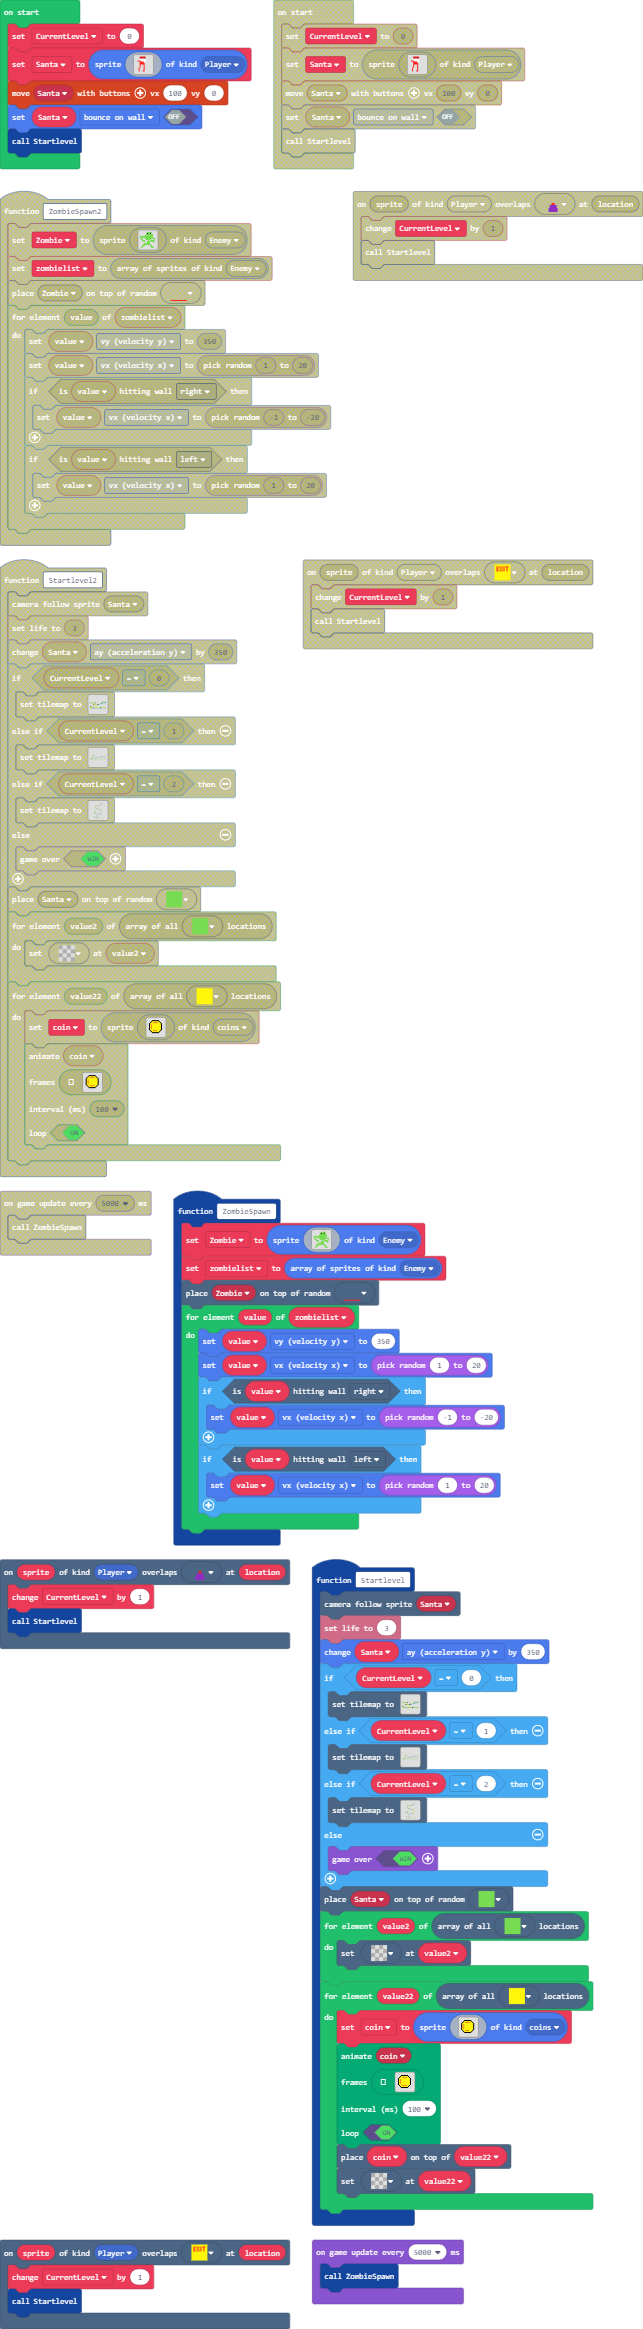
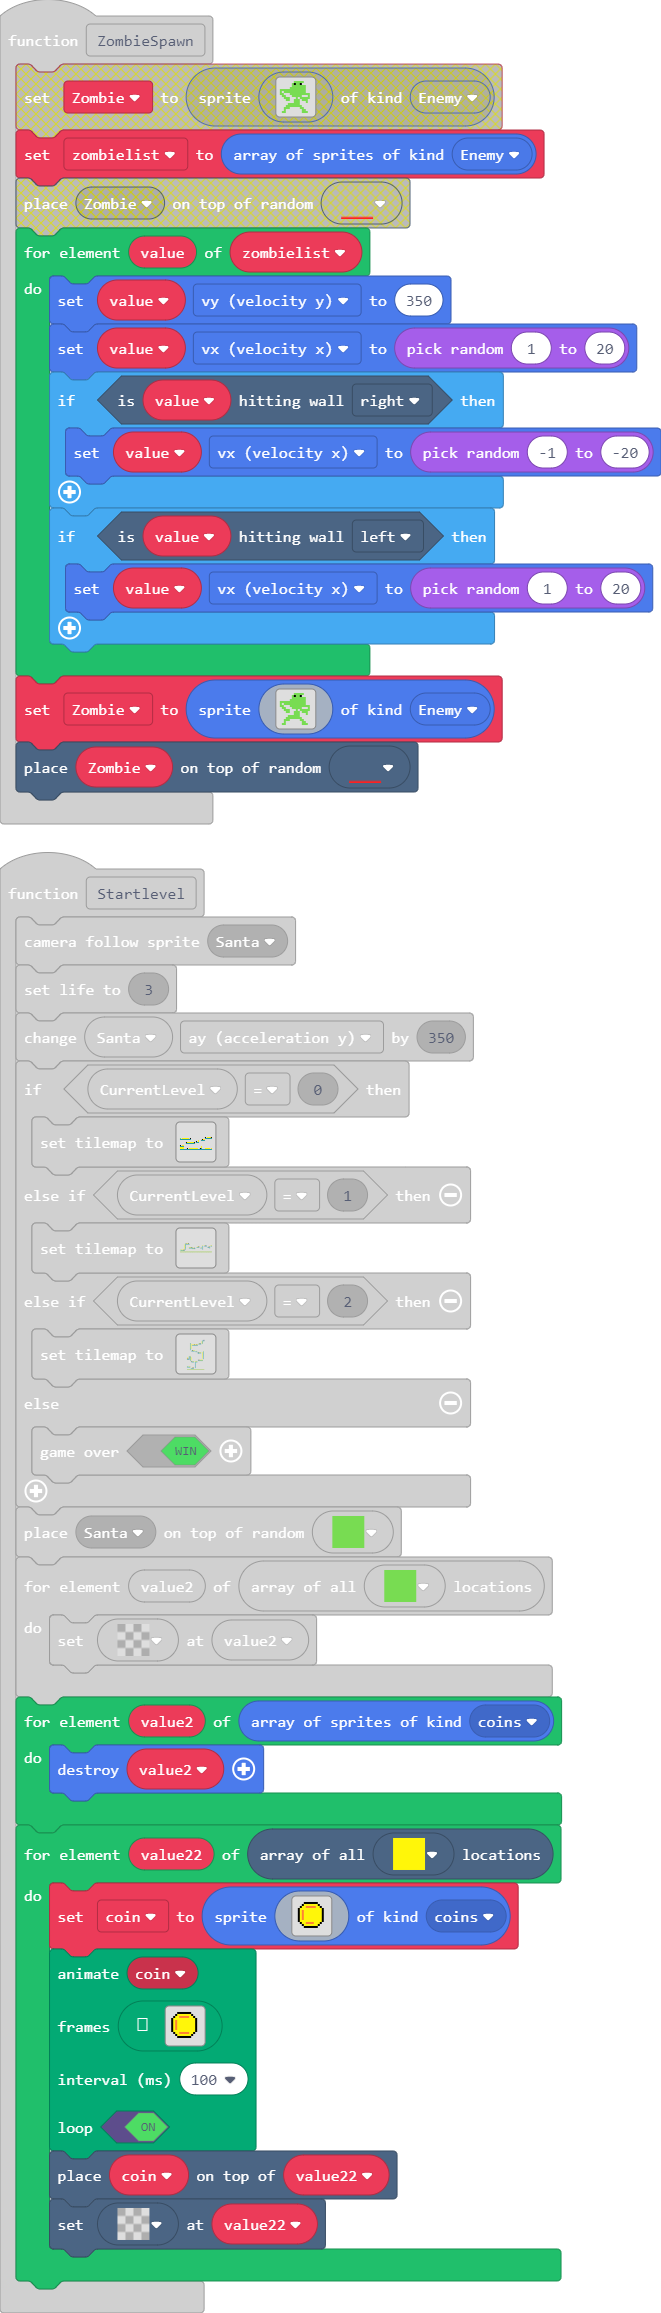
Update main.blocks, main.ts

diff --git a/main.ts b/main.ts
@@ -331,6 +331,9 @@ function Startlevel () {
     for (let value2 of tiles.getTilesByType(myTiles.tile4)) {
         tiles.setTileAt(value2, myTiles.tile0)
     }
+    for (let value2 of sprites.allOfKind(SpriteKind.coins)) {
+        value2.destroy()
+    }
     for (let value22 of tiles.getTilesByType(myTiles.tile7)) {
         coin = sprites.create(img`
 . . . . . . . . . . . . . . . . 
